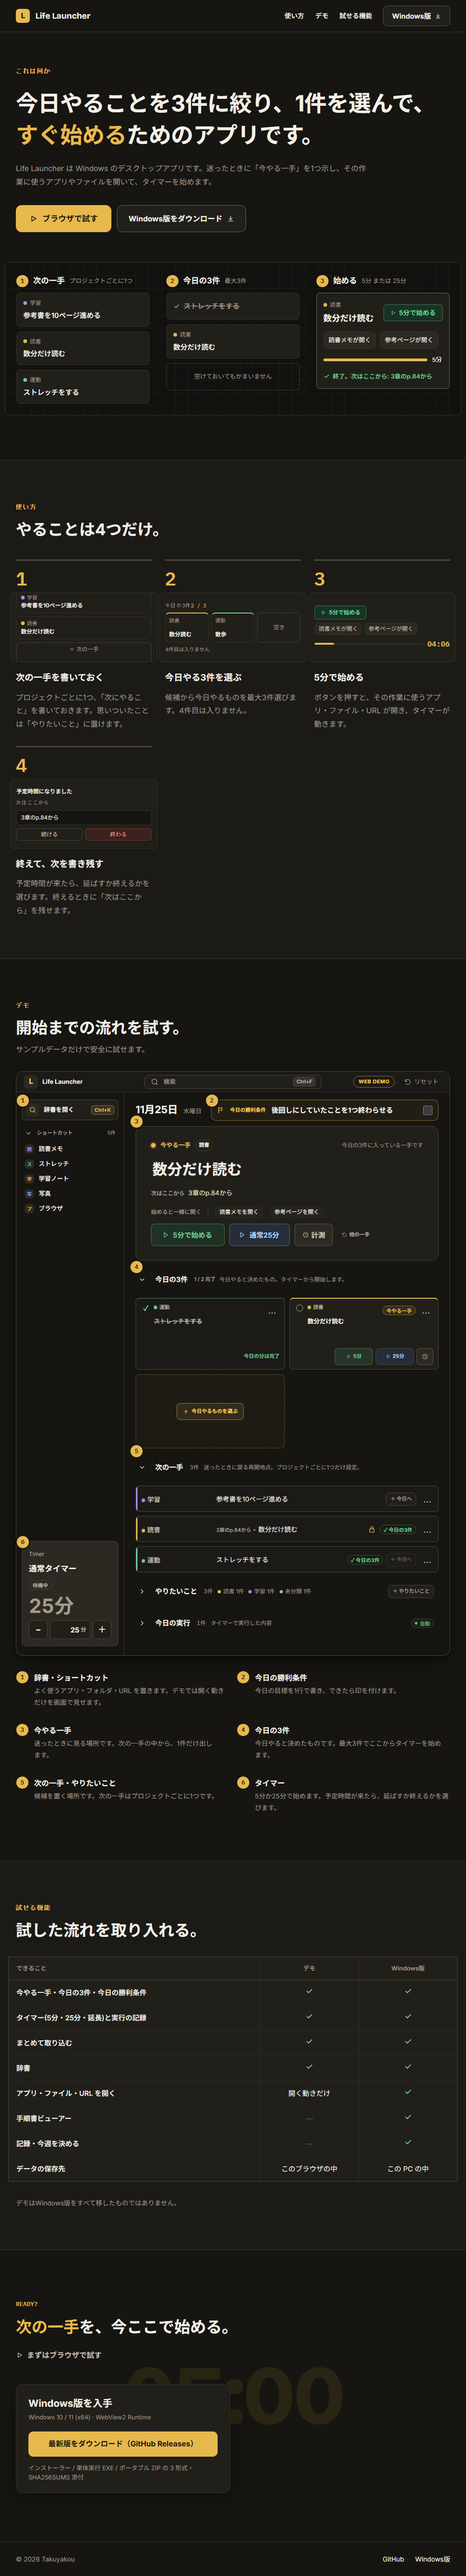
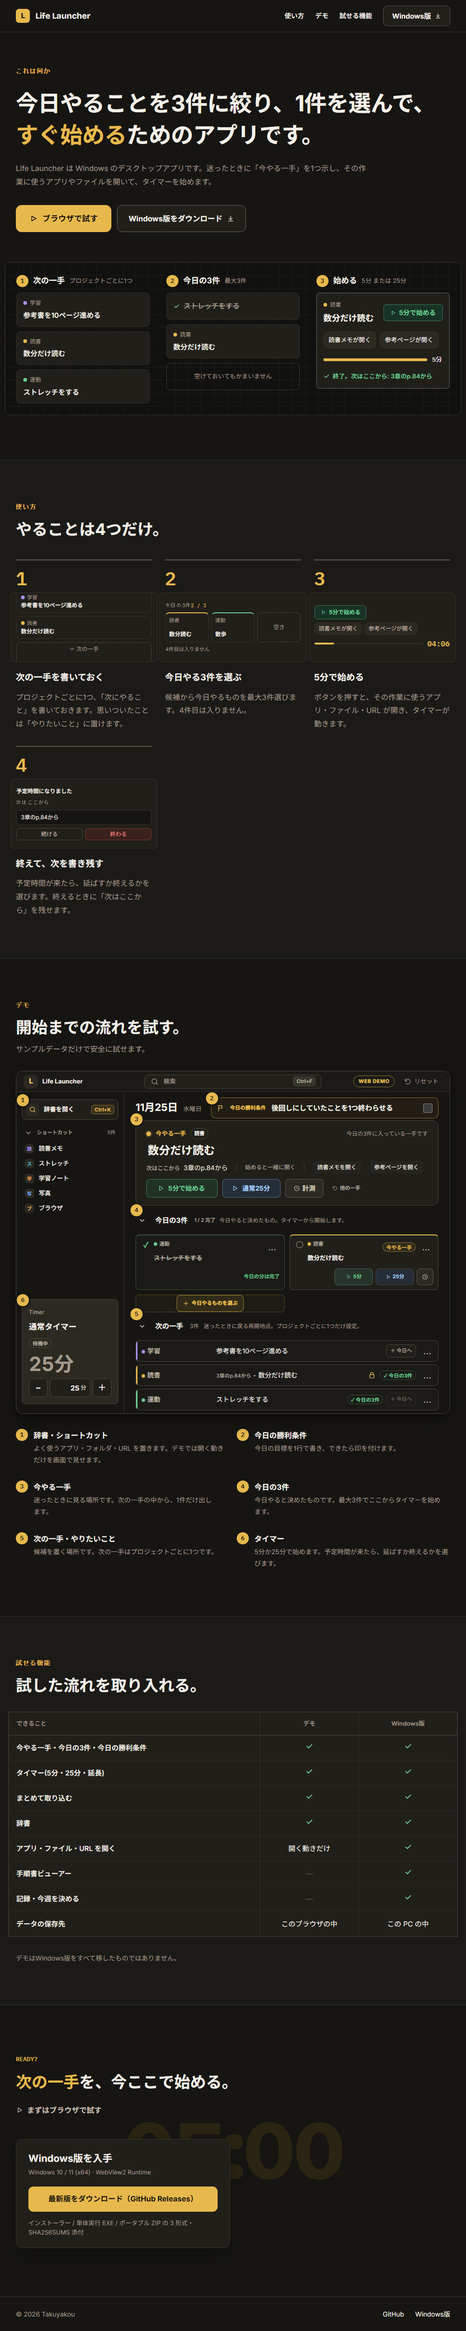
feat: explanations move to their place in the demo; add the W21-07 to 09 record, screens and compact mock (W21-09)
Each numbered explanation under the demo is a button that scrolls the page to the whole window, scrolls the main column to the place when it scrolls inside, and lights the place and its number for 1.6 seconds. Adds the gate section, refreshed screenshots and the compact reference mock.

diff --git a/tests/e2e/w21-landing.spec.ts b/tests/e2e/w21-landing.spec.ts
@@ -371,3 +371,119 @@ test("W21-08: the header Demo link still lands on the heading", async ({ page })
     })
     .toBe(true);
 });
+
+// ---------- W21-09: 番号の説明を押すと、デモの中の対応する場所を見せる ----------
+
+const zoneVisible = (page: Page, id: string) =>
+  page.evaluate((zone) => {
+    const node = document.querySelector<HTMLElement>(`[data-zone="${zone}"]`)!;
+    const main = document.querySelector<HTMLElement>(".dl-main")!;
+    const rect = node.getBoundingClientRect();
+    const inside = main.contains(node) && getComputedStyle(main).overflowY === "auto";
+    const view = inside ? main.getBoundingClientRect() : { top: 0, bottom: innerHeight };
+    const top = Math.max(0, view.top);
+    const bottom = Math.min(innerHeight, view.bottom);
+    // 番号の札は、場所の左上から 11px はみ出す。札まで含めて見えていること。
+    const badge = rect.top - 11;
+    const fits = badge >= top - 1 && rect.bottom <= bottom + 1;
+    const tall = rect.height > bottom - top && badge >= top - 1 && badge < bottom;
+    return fits || tall;
+  }, id);
+
+const litZones = (page: Page) =>
+  page.evaluate(() => ({
+    frames: [...document.querySelectorAll('.lp-zone[data-active="true"] .lp-zone-num')].map(
+      (node) => node.textContent,
+    ),
+    items: [...document.querySelectorAll('.lp-zone-item[data-active="true"] .lp-num')].map(
+      (node) => node.textContent,
+    ),
+  }));
+
+for (const [width, height] of [
+  [1440, 900],
+  [1366, 768],
+  [390, 844],
+] as const) {
+  test(`W21-09: each numbered explanation takes you to its place in the demo and lights it at ${width}x${height}`, async ({
+    page,
+  }) => {
+    await open(page, width, height);
+    const url = page.url();
+    // 説明は button で、見た目は変えない。押せる範囲は項目の全体。
+    const items = page.locator(".lp-zone-item");
+    await expect(items).toHaveCount(6);
+    await expect(items.locator("button")).toHaveCount(6);
+    await expect(items.first().locator("button")).toHaveCSS("cursor", "pointer");
+    for (const id of ["1", "2", "3", "4", "5", "6"]) {
+      const button = page.locator(`[data-zone-go="${id}"]`);
+      await button.scrollIntoViewIfNeeded();
+      await button.click();
+      // 乗せている間も光るので、マウスは説明から外しておく。
+      await page.mouse.move(2, 2);
+      await expect.poll(() => zoneVisible(page, id), { timeout: 5000 }).toBe(true);
+      // 光る: デモの場所の枠と番号、説明の項目。
+      await expect.poll(() => litZones(page)).toEqual({ frames: [id], items: [id] });
+      // フォーカスは押した説明のボタンに残る。URL も変わらない。
+      expect(
+        await page.evaluate(() => document.activeElement?.getAttribute("data-zone-go")),
+      ).toBe(id);
+      expect(page.url()).toBe(url);
+      // 約1.6秒で元に戻る。
+      await expect.poll(() => litZones(page), { timeout: 4000 }).toEqual({ frames: [], items: [] });
+    }
+  });
+}
+
+test("W21-09: pressing another explanation right away moves the light at once", async ({ page }) => {
+  await open(page, 1440, 900);
+  await page.locator('[data-zone-go="2"]').click();
+  await expect.poll(() => litZones(page)).toEqual({ frames: ["2"], items: ["2"] });
+  await page.locator('[data-zone-go="4"]').click();
+  expect(await litZones(page)).toEqual({ frames: ["4"], items: ["4"] });
+  await expect.poll(() => zoneVisible(page, "4"), { timeout: 5000 }).toBe(true);
+});
+
+test("W21-09: the explanations work from the keyboard", async ({ page }) => {
+  await open(page, 1440, 900);
+  for (const [id, key] of [
+    ["3", "Enter"],
+    ["5", "Space"],
+  ] as const) {
+    const button = page.locator(`[data-zone-go="${id}"]`);
+    await button.focus();
+    await page.keyboard.press(key);
+    await expect.poll(() => zoneVisible(page, id), { timeout: 5000 }).toBe(true);
+    await expect.poll(() => litZones(page)).toEqual({ frames: [id], items: [id] });
+    await expect(button).toBeFocused();
+  }
+  // Tab で説明の間を移れる(番号の札と説明のボタンの両方に止まる)。
+  await page.locator('[data-zone-go="1"]').focus();
+  await page.keyboard.press("Tab");
+  await expect(page.locator('[data-zone-go="2"]')).toBeFocused();
+});
+
+test("W21-09: with reduced motion the page and the column jump at once and the light does not fade", async ({
+  page,
+}) => {
+  await page.emulateMedia({ reducedMotion: "reduce" });
+  await open(page, 1366, 768);
+  await page.evaluate(() => window.scrollTo(0, 0));
+  await page.locator('[data-zone-go="5"]').scrollIntoViewIfNeeded();
+  await page.locator('[data-zone-go="5"]').click();
+  // なめらかに動かさないので、すぐ着く。
+  await page.waitForTimeout(150);
+  expect(await zoneVisible(page, "5")).toBe(true);
+  const transition = await page
+    .locator(".lp-zone")
+    .first()
+    .evaluate((node) => getComputedStyle(node).transitionDuration);
+  // 動きを減らす設定では、光りはふわっとせず(ほぼ 0 秒で)出て消える。
+  expect(Math.max(...transition.split(",").map((value) => parseFloat(value)))).toBeLessThanOrEqual(0.001);
+});
+
+test("W21-09: the screen-reader text names where each explanation goes", async ({ page }) => {
+  await open(page, 1440, 900);
+  await expect(page.getByRole("button", { name: /デモの今日の3件へ移動/ })).toHaveCount(1);
+  await expect(page.getByRole("button", { name: /デモのタイマーへ移動/ })).toHaveCount(1);
+});

diff --git a/src/landing/Landing.tsx b/src/landing/Landing.tsx
@@ -414,6 +414,48 @@ export function DemoScreenSection({ children }: { children: ReactNode }) {
   const stageRef = useRef<HTMLDivElement>(null);
   const [rects, setRects] = useState<ZoneRect[]>([]);
   const [active, setActive] = useState<string | null>(null);
+  // 説明を押したときに、対応する場所を約1.6秒だけ光らせる。
+  const [flash, setFlash] = useState<string | null>(null);
+  const flashTimer = useRef<number | undefined>(undefined);
+
+  useEffect(() => () => window.clearTimeout(flashTimer.current), []);
+
+  /**
+   * 番号の説明を押したときの移動。ページをデモの窓全体が入る位置へ動かし、
+   * 本文の列の場所なら、本文の列の中もその場所(上の番号の札を含む)が見える所まで動かす。
+   * 1列に折りたたむ幅では中のスクロールが無いので、場所が画面の縦の真ん中に来るまでページを動かす。
+   * フォーカスは動かさない(押した説明のボタンに残る)。
+   */
+  const goToZone = (id: string) => {
+    const stage = stageRef.current;
+    if (!stage) return;
+    const behavior: ScrollBehavior = prefersReducedMotion() ? "instant" : "smooth";
+    const node = stage.querySelector<HTMLElement>(`[data-zone="${id}"]`);
+    const main = stage.querySelector<HTMLElement>(".dl-main");
+    const scrollsInside = main !== null && getComputedStyle(main).overflowY === "auto";
+    if (!scrollsInside) {
+      if (node) {
+        const rect = node.getBoundingClientRect();
+        const top = rect.top + window.scrollY + rect.height / 2 - window.innerHeight / 2;
+        window.scrollTo({ top: Math.max(0, top), behavior });
+      }
+    } else {
+      scrollToDemoWindow();
+      if (node && main && main.contains(node)) {
+        const view = main.getBoundingClientRect();
+        const rect = node.getBoundingClientRect();
+        // 番号の札は、場所の左上から 11px はみ出し、光る枠は 3px 外に出る。
+        const above = rect.top - 14 - view.top;
+        const below = rect.bottom + 4 - view.bottom;
+        const delta = above < 0 ? above : below > 0 ? Math.min(below, above) : 0;
+        if (delta !== 0) main.scrollTo({ top: main.scrollTop + delta, behavior });
+      }
+    }
+    window.clearTimeout(flashTimer.current);
+    setFlash(id);
+    flashTimer.current = window.setTimeout(() => setFlash(null), 1600);
+  };
+  const lit = (id: string) => active === id || flash === id;
 
   useEffect(() => {
     const stage = stageRef.current;
@@ -499,7 +541,7 @@ export function DemoScreenSection({ children }: { children: ReactNode }) {
             {children}
             {rects.map((rect) => {
               const zone = ZONES.find((item) => item.id === rect.id)!;
-              const isActive = active === rect.id;
+              const isActive = lit(rect.id);
               const origin = rect.clip ?? { left: 0, top: 0, width: 0, height: 0 };
               const zoneNode = (
                 <div
@@ -549,18 +591,26 @@ export function DemoScreenSection({ children }: { children: ReactNode }) {
             {ZONES.map((zone) => (
               <li
                 className="lp-zone-item"
-                data-active={active === zone.id ? "true" : undefined}
+                data-active={lit(zone.id) ? "true" : undefined}
                 key={zone.id}
                 onMouseEnter={() => setActive(zone.id)}
                 onMouseLeave={() => setActive(null)}
               >
-                <span aria-hidden="true" className="lp-num">
-                  {zone.id}
-                </span>
-                <span className="lp-zone-copy">
-                  <span className="lp-zone-title">{zone.title}</span>
-                  <span className="lp-zone-text">{zone.text}</span>
-                </span>
+                <button
+                  className="lp-zone-item-btn"
+                  data-zone-go={zone.id}
+                  onClick={() => goToZone(zone.id)}
+                  type="button"
+                >
+                  <span aria-hidden="true" className="lp-num">
+                    {zone.id}
+                  </span>
+                  <span className="lp-zone-copy">
+                    <span className="lp-zone-title">{zone.title}</span>
+                    <span className="lp-zone-text">{zone.text}</span>
+                  </span>
+                  <span className="lp-sr-only">デモの{zone.title}へ移動</span>
+                </button>
               </li>
             ))}
           </ol>

diff --git a/src/landing.css b/src/landing.css
@@ -1169,9 +1169,10 @@
   border-radius: 8px;
   display: flex;
   gap: 12px;
-  /* 番号は文字の列にそろえ、乗せた時の背景は列の外へはみ出させる。 */
+  /* 番号は文字の列にそろえ、乗せた時の背景は列の外へはみ出させる。
+     押せる範囲は項目の全体(中の button が余白も含めて埋める)。 */
   margin-inline: -14px;
-  padding: 12px 14px;
+  padding: 0;
   transition:
     background-color 0.15s ease,
     border-color 0.15s ease;
@@ -1181,6 +1182,26 @@
 .lp-zone-item[data-active="true"] {
   background: #211f1a;
   border-color: #e7b94d;
+}
+
+.lp-zone-item-btn {
+  align-items: flex-start;
+  background: transparent;
+  border: 0;
+  border-radius: 7px;
+  color: inherit;
+  cursor: pointer;
+  display: flex;
+  font: inherit;
+  gap: 12px;
+  padding: 11px 13px;
+  text-align: left;
+  width: 100%;
+}
+
+.lp-zone-item-btn:focus-visible {
+  outline: 2px solid #ffce5b;
+  outline-offset: -2px;
 }
 
 .lp-zone-copy {
